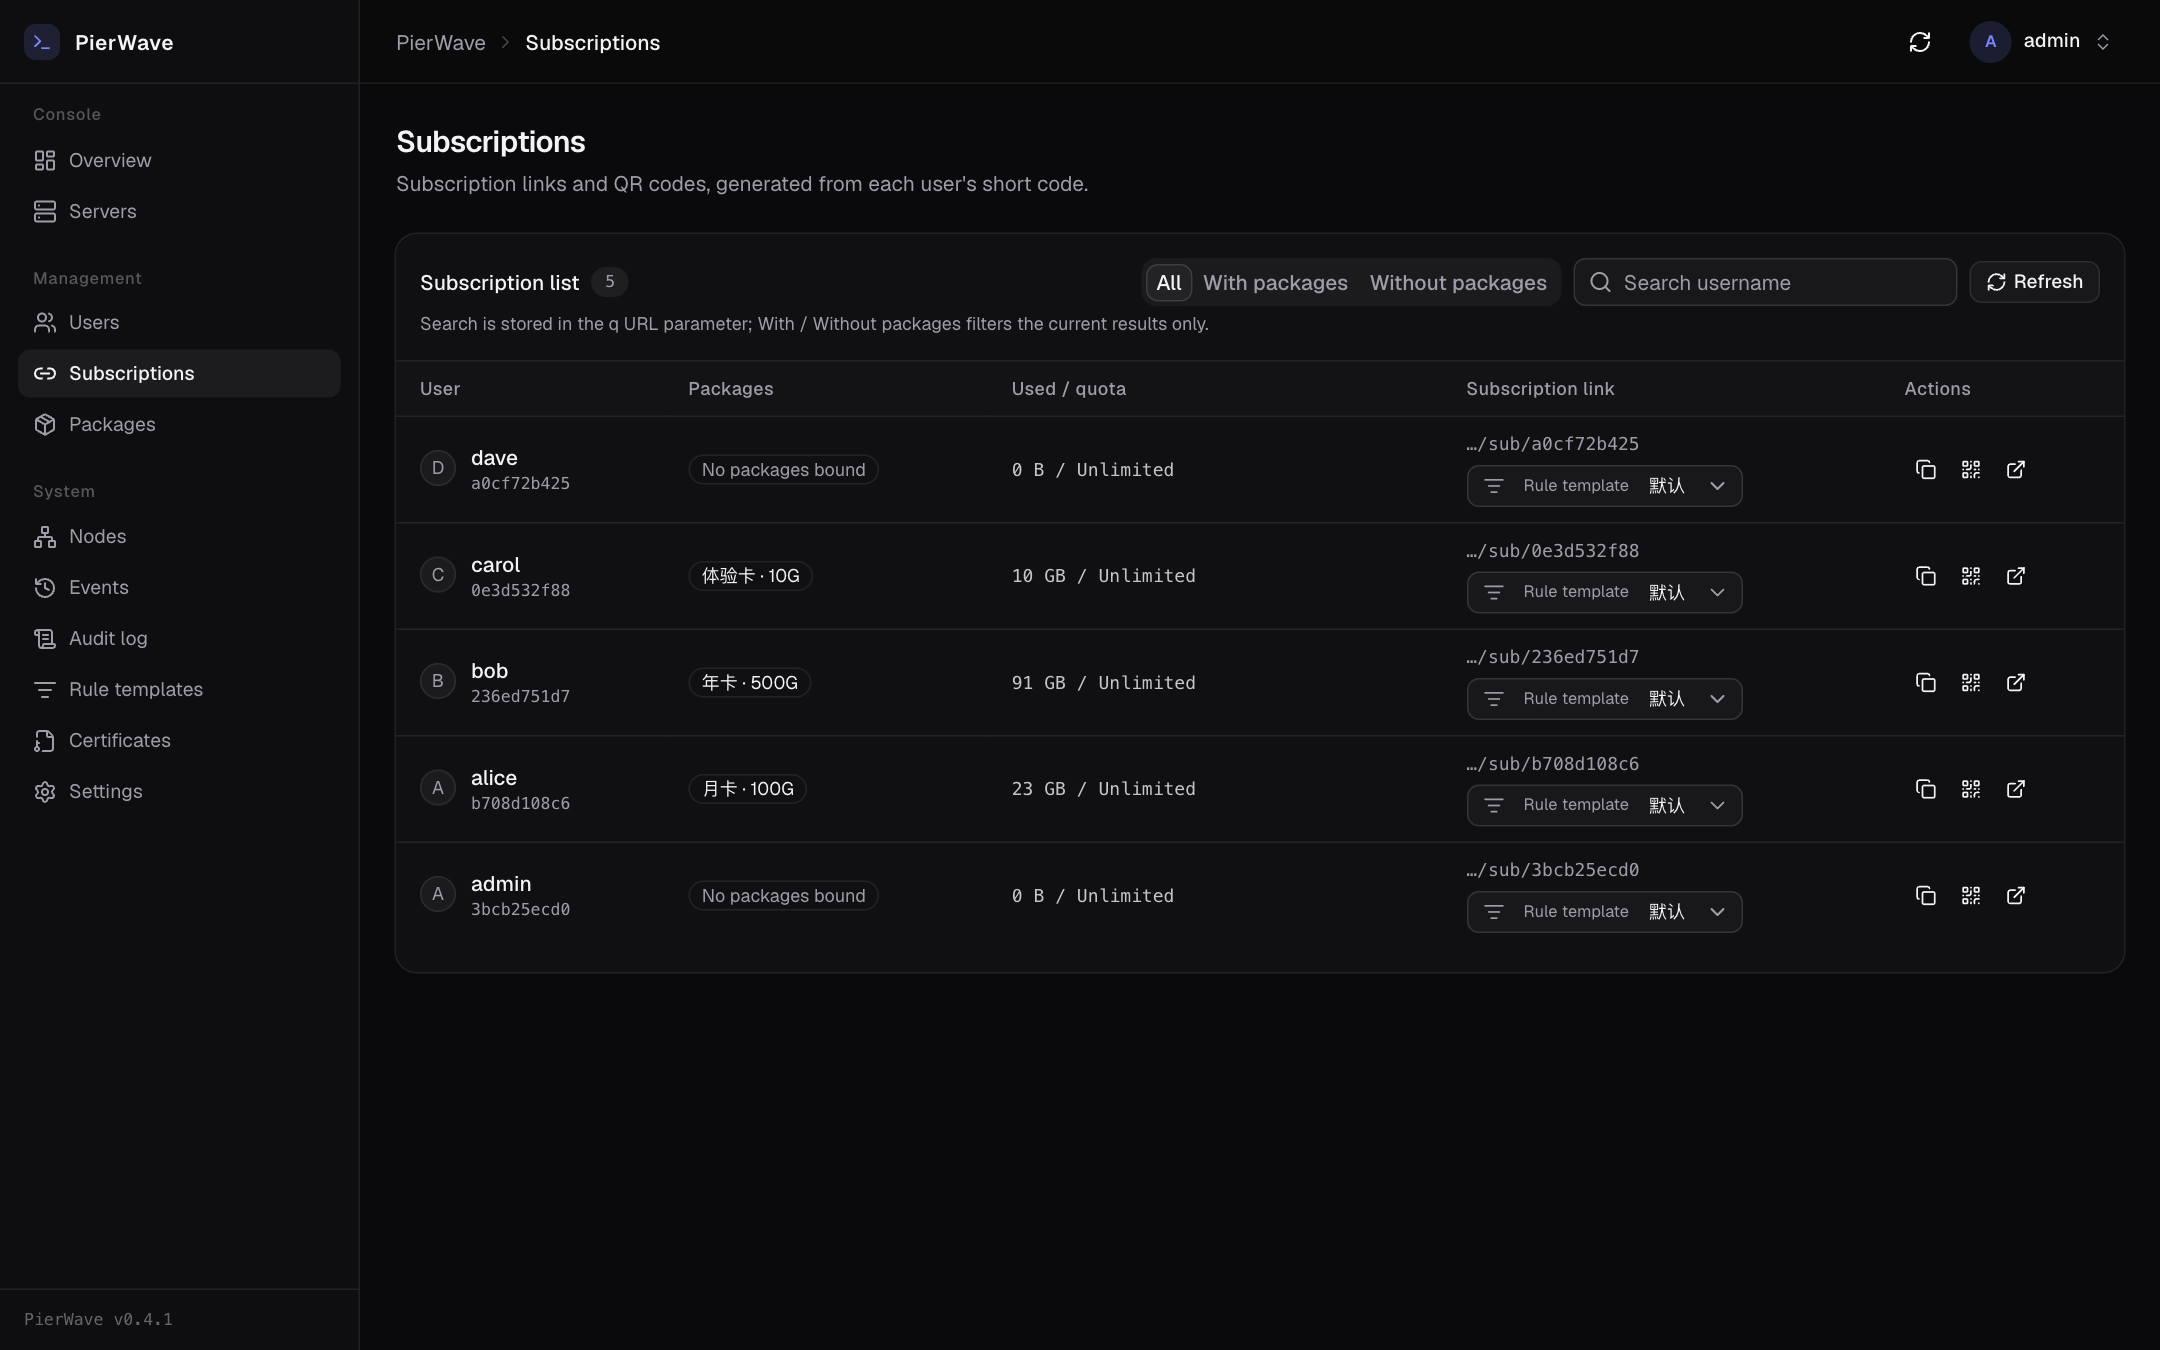
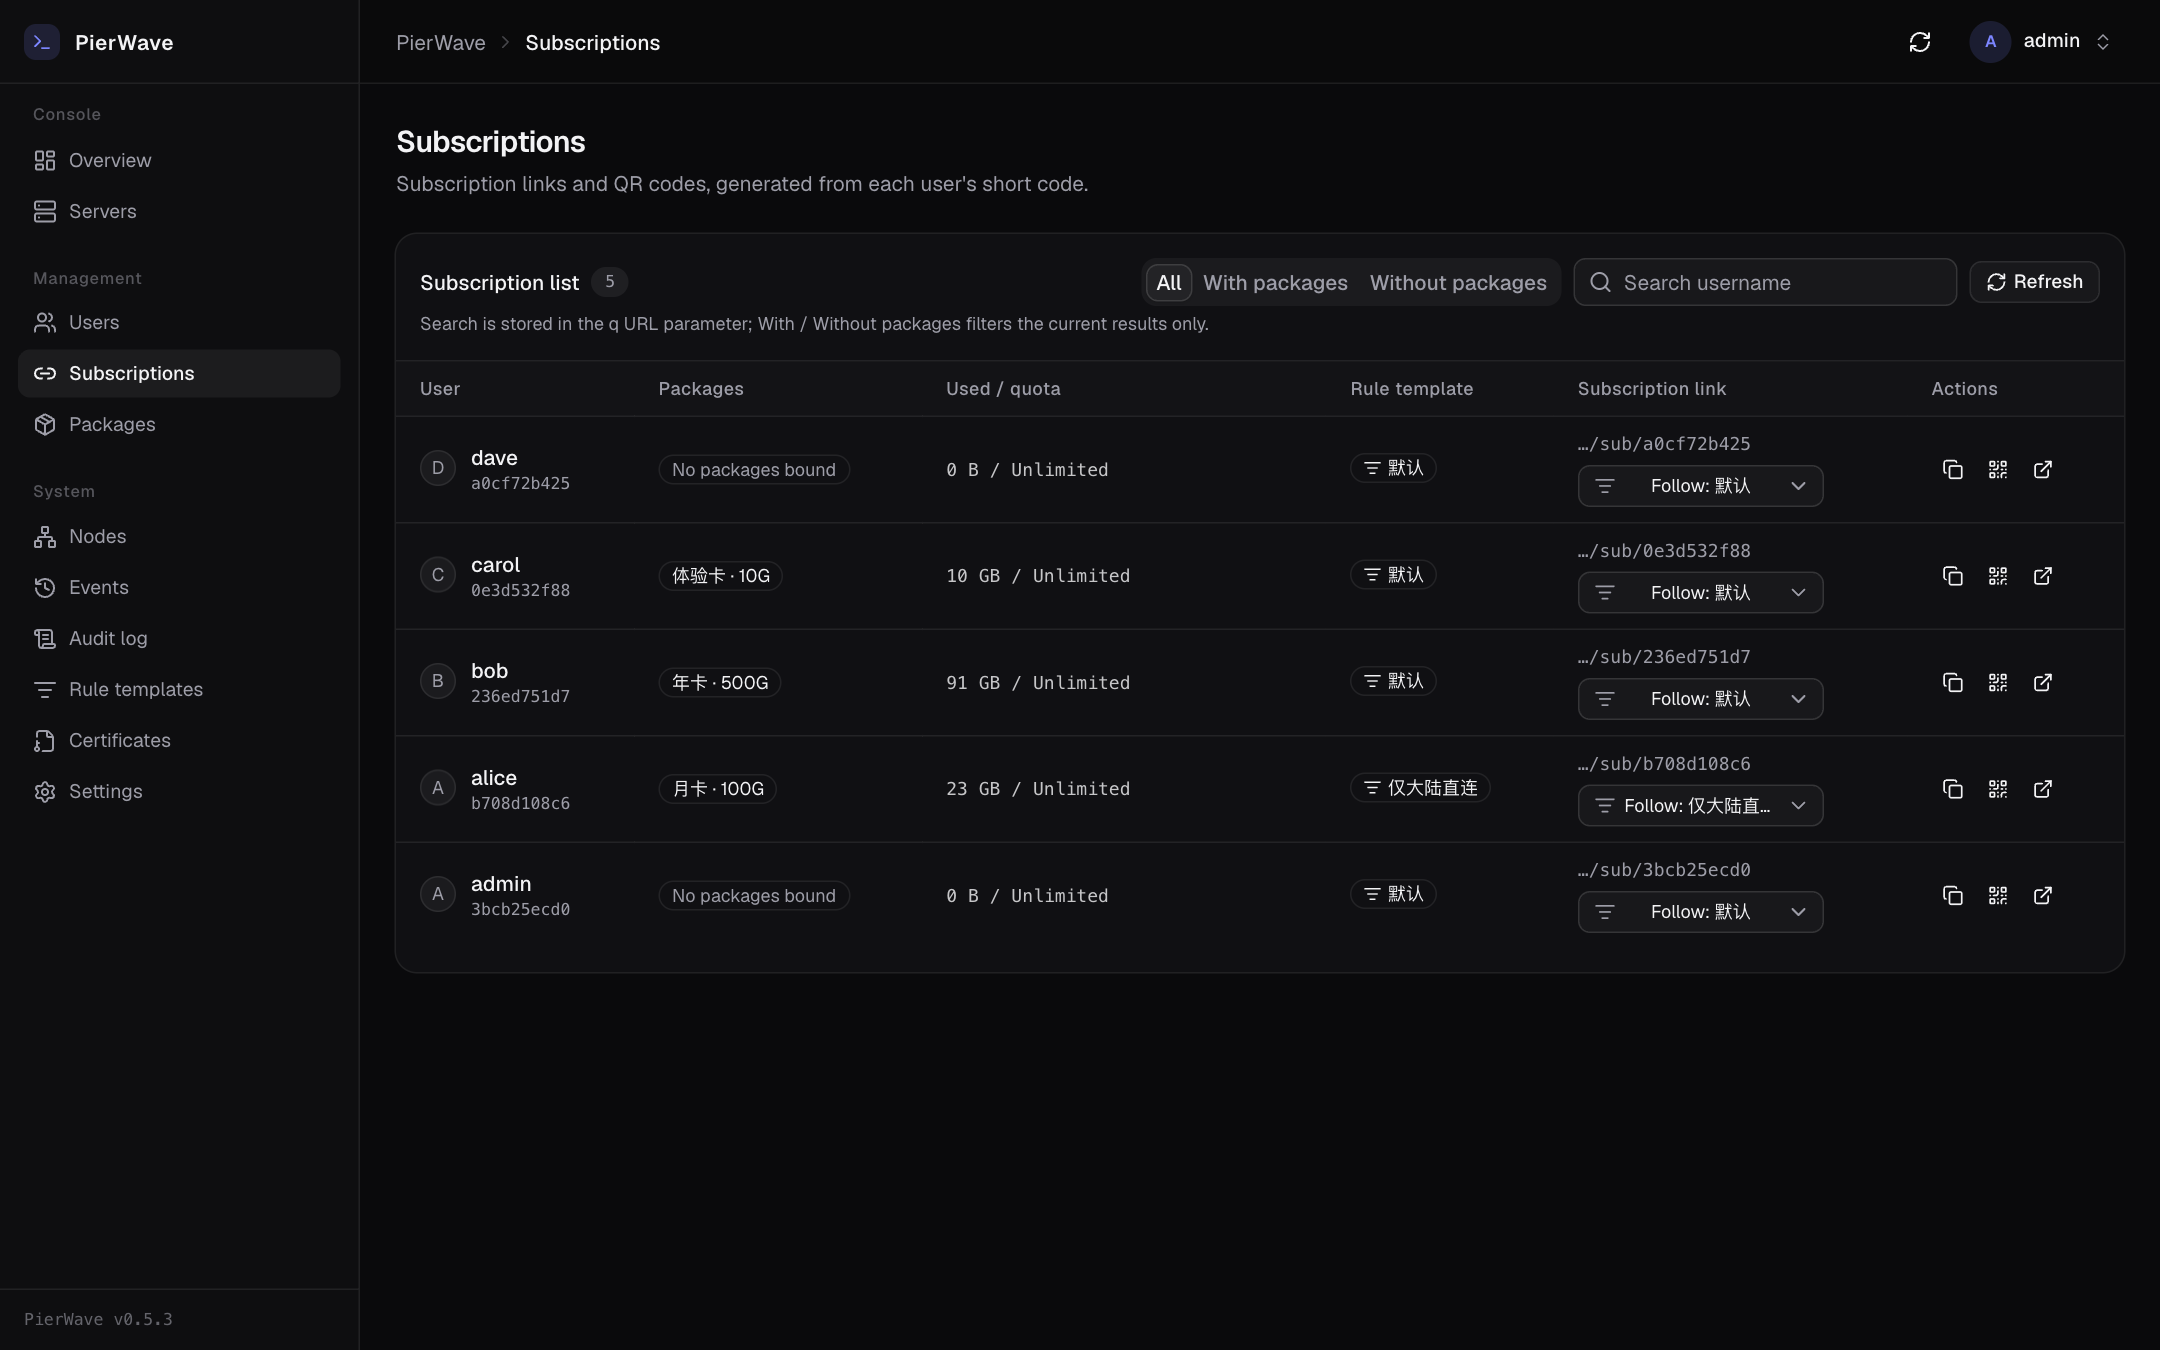
fix(web): subscription link defaults to following the effective rule template

diff --git a/web/src/components/subscriptions/RuleTemplateSelect.tsx b/web/src/components/subscriptions/RuleTemplateSelect.tsx
@@ -10,9 +10,14 @@ import {
 import type { RuleTemplate } from "@/lib/api";
 import { t } from "@/i18n";
 
+/** 「跟随绑定」的哨兵值：Radix Select 不接受空字符串作为 item value。 */
+export const FOLLOW_BINDING = "__follow__";
+
 interface RuleTemplateSelectProps {
   templates: RuleTemplate[];
   selected: RuleTemplate | null;
+  /** 该用户实际生效的模板名（来自后端解析），用于「跟随」选项的文案。 */
+  effectiveName: string | null;
   pending: boolean;
   /** 已本地化的加载错误；为空表示列表可用。 */
   error: string | null;
@@ -29,6 +34,7 @@ interface RuleTemplateSelectProps {
 export function RuleTemplateSelect({
   templates,
   selected,
+  effectiveName,
   pending,
   error,
   username,
@@ -54,24 +60,31 @@ export function RuleTemplateSelect({
   return (
     <div className="flex min-w-0 items-center gap-1">
       <Select
-        value={selected?.id ?? ""}
-        onValueChange={onSelect}
+        value={selected?.id ?? FOLLOW_BINDING}
+        onValueChange={(value) =>
+          onSelect(value === FOLLOW_BINDING ? "" : value)
+        }
         disabled={disabled}
       >
         <SelectTrigger
           size="sm"
-          className="h-7 w-[184px] text-xs"
+          className="h-7 w-[164px] text-xs"
           aria-label={t("subscriptions.ruleTemplateAria", { username })}
           title={title}
         >
           <ListFilterIcon className="size-3.5 text-muted-foreground" />
-          <span className="shrink-0 text-[11px] text-muted-foreground">
-            {t("subscriptions.ruleTemplate")}
-          </span>
           <SelectValue placeholder={placeholder} />
         </SelectTrigger>
         <SelectContent align="start" className="max-w-[320px]">
           <SelectGroup>
+            {/* 默认就是「跟随」：用它自己的绑定，链接不带 ?rule=，避免静默覆盖 */}
+            <SelectItem value={FOLLOW_BINDING} title={t("subscriptions.ruleTemplateFollowHint")}>
+              <span className="truncate">
+                {t("subscriptions.ruleTemplateFollowShort", {
+                  name: effectiveName || t("subscriptions.ruleTemplateDefault"),
+                })}
+              </span>
+            </SelectItem>
             {templates.map((item) => (
               <SelectItem
                 key={item.id}

diff --git a/web/src/pages/Subscriptions.tsx b/web/src/pages/Subscriptions.tsx
@@ -51,10 +51,7 @@ import {
 import { copyText } from "@/lib/clipboard";
 import { errorText } from "@/lib/errors";
 import { useRuleTemplates, useSubscriptions } from "@/lib/queries";
-import {
-  pickDefaultRuleTemplate,
-  ruleTemplateErrorText,
-} from "@/lib/ruleTemplates";
+import { ruleTemplateErrorText } from "@/lib/ruleTemplates";
 import { cn } from "@/lib/utils";
 import { t, useI18n } from "@/i18n";
 
@@ -245,20 +242,20 @@ export default function SubscriptionsPage() {
   const subscriptions = useSubscriptions(q);
   const ruleTemplates = useRuleTemplates();
   const templates = ruleTemplates.data ?? [];
-  const defaultTemplate = pickDefaultRuleTemplate(templates);
   const ruleTemplateError =
     ruleTemplates.isError && templates.length === 0
       ? ruleTemplateErrorText(ruleTemplates.error)
       : null;
 
-  /** 行内选择优先；模板被删除或尚未加载时回落到默认模板。 */
+  /**
+   * 行内选择：空/未选 = 跟随用户自己的绑定（链接不带 ?rule=）。
+   * 之前默认选中全局默认模板，会让「规则模板」列显示默认、徽标却显示用户绑定，
+   * 复制出来的链接看起来和生效规则不一致。
+   */
   function selectedTemplate(userId: string): RuleTemplate | null {
     const selectedId = ruleSelections[userId];
-    if (selectedId) {
-      const found = templates.find((item) => item.id === selectedId);
-      if (found) return found;
-    }
-    return defaultTemplate;
+    if (!selectedId) return null;
+    return templates.find((item) => item.id === selectedId) ?? null;
   }
 
   // 浏览器前进/后退改变 ?q 时同步输入框；用 render 期间的派生状态避免额外 effect。
@@ -560,6 +557,7 @@ export default function SubscriptionsPage() {
                           <RuleTemplateSelect
                             templates={templates}
                             selected={template}
+                            effectiveName={ruleTemplateName}
                             pending={ruleTemplates.isPending}
                             error={ruleTemplateError}
                             username={user.username}

diff --git a/web/src/i18n/zh-CN.ts b/web/src/i18n/zh-CN.ts
@@ -599,6 +599,9 @@ const zhCN = {
     ruleTemplateAria: "{username} 的规则模板",
     ruleTemplateTitle: "选择这条订阅使用的规则模板",
     ruleTemplateLoading: "规则模板加载中…",
+      ruleTemplateFollow: "跟随绑定（{name}）",
+      ruleTemplateFollowShort: "跟随：{name}",
+      ruleTemplateFollowHint: "使用该用户自己绑定（或套餐/全局默认）的规则模板，链接不带 rule 参数",
     ruleTemplateUnavailable: "规则模板加载失败，将使用默认规则",
     ruleTemplateDefault: "默认规则",
     ruleTemplateEffectiveTitle: "生效规则模板，点击打开规则模板页",

diff --git a/web/src/i18n/en.ts b/web/src/i18n/en.ts
@@ -629,6 +629,9 @@ const en = {
     ruleTemplateAria: "Rule template for {username}",
     ruleTemplateTitle: "Choose the rule template for this subscription",
     ruleTemplateLoading: "Loading rule templates…",
+      ruleTemplateFollow: "Follow binding ({name})",
+      ruleTemplateFollowShort: "Follow: {name}",
+      ruleTemplateFollowHint: "Use the template this user already resolves to (own, package or global); the link carries no rule parameter",
     ruleTemplateUnavailable:
       "Rule templates failed to load; the default rules will be used",
     ruleTemplateDefault: "Default rules",
